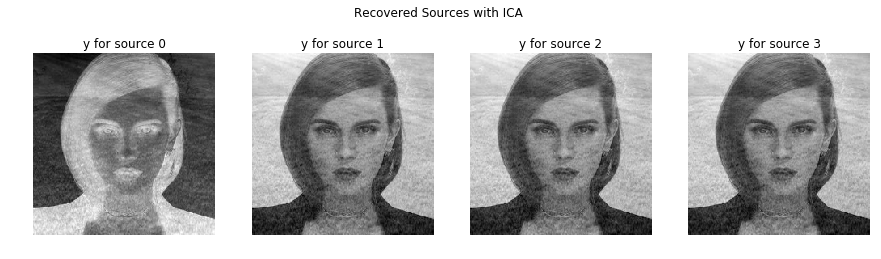
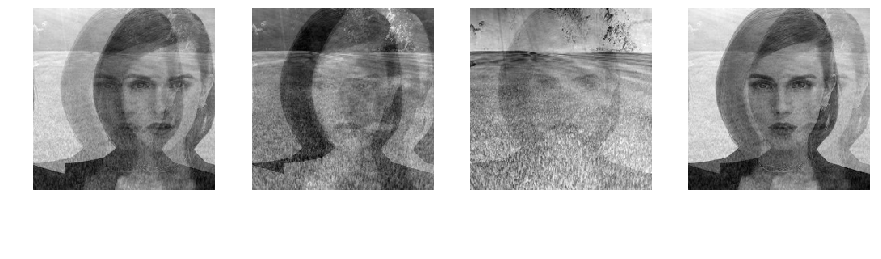
kmeans working, new init for fastISA

diff --git a/src/HistogramOrientedGradient.py b/src/HistogramOrientedGradient.py
@@ -1,0 +1,114 @@
+#!/usr/bin/env python3
+# -*- coding: utf-8 -*-
+"""
+Created on Fri Mar  3 18:19:43 2017
+
+@author: camillejandot
+"""
+import numpy as np
+
+
+class HistogramOrientedGradient():
+    def __init__(self, cell_size=4, n_bins=18, signed=True, img_size=224):
+        self.n_cells = int(img_size/cell_size)  # nb of cells (one 1 axis)
+        self.cell_size = cell_size  # nb of pixel in cell (along 1 axis)
+        self.n_bins = n_bins
+        self.img_size = img_size
+        self.signed = signed
+
+    def _grad(self, img):
+        # Compute gradient wrt 1st dimension
+        grad_x = np.zeros(img.shape)
+        grad_x[:, 1:-1] = img[:, 2:] - img[:, :-2]
+        grad_x[:, 0] = img[:, 1] - img[:, 0]
+        grad_x[:, -1] = img[:, -1] - img[:, -2]
+
+        # Compute gradient wrt 2nd dimension
+        grad_y = np.zeros(img.shape)
+        grad_y[1:-1, :] = img[2:, :] - img[:-2, :]
+        grad_y[0, :] = img[1, :] - img[0, :]
+        grad_y[-1, :] = img[-1, :] - img[-2, :]
+
+        return grad_x, grad_y
+
+    def _compute_magnitude(self, grad_x, grad_y):
+        return np.sqrt(grad_x ** 2 + grad_y ** 2)
+
+    def _compute_orientation(self, grad_x, grad_y):
+        orientation_rad = np.arctan2(grad_y, grad_x)
+        orientation_deg = (orientation_rad * 180 / (2 * np.pi)) % 360
+        return orientation_deg
+
+
+    def _orientation_interpolation(self, orientation):
+        n_bins = self.n_bins
+        if self.signed:
+            angle_max = 360.
+        else:
+            angle_max = 180.
+        angle_bin = angle_max / n_bins
+        nums_bin_low = orientation // angle_bin
+        nums_bin_high = (nums_bin_low + 1.) % n_bins
+
+        weights_high = (orientation % angle_bin) / float(angle_bin)
+        hist = np.zeros((orientation.shape[0], orientation.shape[1], n_bins))
+
+        for i in range(n_bins):
+            hist[:, :, i] = np.where(nums_bin_low == i, (1. - weights_high), 0)
+            hist[:, :, i] += np.where(nums_bin_high == i, weights_high, 0)
+
+        return hist
+
+    def _average_per_cell(self, img):
+        average = np.zeros((self.n_cells, self.n_cells, self.n_bins))
+        for i in range(0, img.shape[0], self.cell_size):
+            for j in range(0, img.shape[0], self.cell_size):
+                ind_i = i // self.cell_size
+                ind_j = j // self.cell_size
+                average[ind_i, ind_j, :] = img[i:i + self.cell_size, j:j + self.cell_size, :].mean(axis=0).mean(axis=0)
+        return average
+
+
+
+    def _normalize_histogram(self, raw_histogram):
+        pass
+
+    def _build_histogram(self, im):
+        if im.ndim == 2:
+            grad_x, grad_y = self._grad(im)
+            orientation = self._compute_orientation(grad_x, grad_y)
+            magnitude = self._compute_magnitude(grad_x, grad_y)
+            orientation_interpolation = self._orientation_interpolation(orientation)
+            hist = self._average_per_cell(orientation_interpolation * magnitude[:, :, np.newaxis]).flatten()
+            hist /= np.linalg.norm(hist)
+            feat = list(hist)
+        elif im.ndim == 3:
+            feat = []
+            for i in range(im.shape[2]):
+                grad_x, grad_y = self._grad(im[:, :, i])
+                orientation = self._compute_orientation(grad_x, grad_y)
+                magnitude = self._compute_magnitude(grad_x, grad_y)
+                orientation_interpolation = self._orientation_interpolation(orientation)
+                hist = self._average_per_cell(orientation_interpolation * magnitude[:, :, np.newaxis]).flatten()
+                hist /= np.linalg.norm(hist)
+                feat.extend(list(hist))
+        else:
+            raise Exception("Reshape, please :)")
+        return feat
+
+    def extract_features(self, X):
+        if X[0].ndim == 2:
+            feat = np.zeros((len(X), self.n_cells * self.n_cells * self.n_bins))
+
+        elif X[0].ndim == 3:
+            feat = np.zeros((len(X), self.n_cells * self.n_cells * self.n_bins * X[0].shape[2]))
+
+        else:
+            raise Exception("Reshape, please :)")
+
+        for i, item in enumerate(X):
+            feat[i] = self._build_histogram(item)
+
+        return feat
+
+

diff --git a/src/experiments_image.py b/src/experiments_image.py
@@ -8,19 +8,33 @@ Created on Fri Mar 31 17:32:15 2017
 """
 import matplotlib.pyplot as plt
 import numpy as np
-from data_utils import Image
+from data_utils import Image, load_hog_features
 from projection_utils import proj, orth_projection
 from fastICA import fastICA, fastISA
 from jade import jadeR
+from sklearn.cluster import KMeans
+from sklearn.metrics.pairwise import chi2_kernel
 
 n_sources = 4
 sub_dim = 2
-method = 'mica'
-algorithm ='jade'
+method = 'fastISA'
+algorithm ='fastICA'
 mixing_matrix = np.array([[ 0.9703649 ,  0.72929818,  0.18619978,  0.92128597],
        [ 0.47784494,  0.05356984,  0.8321572 ,  0.89070084],
        [ 0.34709615,  0.95119286,  0.20143702,  0.10954151],
        [ 0.89497312,  0.38542305,  0.51929272,  0.32574721]])
+
+unmixing_init_jade = np.array([[  2.26871417,  2.19459843,  -0.34084106, -4.48947479],
+ [  3.86424994, -3.7989024,   -3.05250899,  1.08584109],
+ [  3.33557399, -8.76012108,  -7.53106942,  16.48697795],
+ [  0.94020928,  -1.54942086, -11.75755656,   6.68037556]])
+
+unmixing_init_fastICA = np.array([[-0.81662635, -0.4594127,   0.31846124,  0.14367955],
+ [-0.48541563,  0.27400536, -0.82638635, -0.07986443],
+ [ 0.30755096, -0.82643013, -0.46181555,  0.09566635],
+ [-0.04507106, -0.16955894,  0.06677054, -0.982222  ]])
+
+init_fastISA = np.linalg.inv(unmixing_init_fastICA)
 
 # Loading Data
 im = Image(nb_images=n_sources)
@@ -33,6 +47,7 @@ if method == 'mica' or method =='ica':
         unmixing_mat = np.asarray(jadeR(mixtures))
     elif algorithm == 'fastICA':
         unmixing_mat, _, _ = fastICA(mixtures, init=False, A_init=mixing, n_iter=50)
+    print(unmixing_mat)
     A_hat = np.linalg.inv(unmixing_mat)
     y = np.dot(unmixing_mat, mixtures)
     
@@ -44,15 +59,20 @@ if method == 'mica' or method =='ica':
         plt.title('y for source ' + str(plot_num))
         #plt.suptitle("Recovered Sources with ICA")
     plt.show()
-        
+    
+    hog_features = load_hog_features(y, equalize=False)
+    X = chi2_kernel(hog_features, hog_features, gamma=0.01)
+    kmeans = KMeans(n_clusters=sub_dim, random_state=0).fit(X)
+    labels = kmeans.labels_
     # Orthogonal projections 
     if method == 'mica':
         if n_sources == 3:
-            c_emma = [0,1]
-            c_grass = 2
+            c_emma = np.where(labels == 0)[0]
+            c_grass = np.where(labels == 1)[0][0]
+            
         elif n_sources == 4:
-            c_emma = [0, 1]
-            c_grass = [2, 3]
+            c_emma = np.where(labels == 0)[0]
+            c_grass = np.where(labels == 1)[0]
         
         a_grass = A_hat[:,c_grass]
         a_emma = A_hat[:, c_emma]
@@ -85,7 +105,8 @@ if method == 'mica' or method =='ica':
             #plt.suptitle("Grass MICA Component")
 
 elif method == 'fastISA':
-    W,S,R = fastISA(X=mixtures, dim=n_sources, red_dim=mixtures.shape[0], T=mixtures.shape[1], sub_dim=sub_dim, maxiter=15, seed=5, A_init=mixing)
+    W,S,R = fastISA(X=mixtures, dim=n_sources, red_dim=mixtures.shape[0], T=mixtures.shape[1], sub_dim=sub_dim, maxiter=15, seed=5,
+                    A_init=init_fastISA)
     plt.figure(figsize=(15.0, 4.0))
     for plot_num in range(n_sources):
         plt.subplot(1, n_sources, plot_num+1)

diff --git a/src/data_utils.py b/src/data_utils.py
@@ -11,6 +11,8 @@ import matplotlib.pyplot as plt
 import numpy as np
 import pandas as pd
 from scipy.misc import imresize
+from HistogramOrientedGradient import HistogramOrientedGradient
+from equalization import equalize_item
 
 class ECG_data:
     def __init__(self,verbose=False):
@@ -107,7 +109,7 @@ class Audio:
     
 class Image:
     
-    def __init__(self, nb_images=3, shape=225):
+    def __init__(self, nb_images=3, shape=224):
         im_gl_path = '../data/image/'
         if nb_images == 2:
             ims = ['grass.jpeg', 'emma.jpeg']
@@ -172,7 +174,8 @@ class Image:
             plt.show()
             
         return mixture, mixing_matrix
-    
+
+        
 def gen_super_gauss(dim, red_dim, T, sub_dim, seed):
     n_subspace = int(np.floor(dim / sub_dim))
     
@@ -195,9 +198,49 @@ def gen_super_gauss(dim, red_dim, T, sub_dim, seed):
     X = np.dot(A,super_gauss)
     
     return  A, X, super_gauss
-            
+    
+def vec_to_img(item,rgb=False):
+    
+    length = int(np.sqrt(item.shape[0]))
+    img = np.zeros((length, length, 3))
+    for i in range(3):
+        img[:, :, i] = item.reshape(length, length)
         
+    if rgb:
+        return img
         
+    else:
+        ret = (0.2126 * img[:,:,0]) + (0.7152 * img[:,:,1]) + (0.0722 * img[:,:,2])
+        return ret
+        
+def rgb_to_opprgb(item):
+    img_opp = np.zeros((32,32,3))
+    opp_mult = np.array([[1.,0.,1,13983],[1.,-0.39465,-0.58060],[1.,2.03211,0.]])
+    img = vec_to_img(item,rgb=True)
+
+    img_opp[:,:,0] = opp_mult[0,0]*img[:,:,0] + opp_mult[0,1]*img[:,:,1] + opp_mult[0,2]*img[:,:,2]
+    img_opp[:,:,1] = opp_mult[1,0]*img[:,:,0] + opp_mult[1,1]*img[:,:,1] + opp_mult[1,2]*img[:,:,2]
+    img_opp[:,:,2] = opp_mult[2,0]*img[:,:,0] + opp_mult[2,1]*img[:,:,1] + opp_mult[2,2]*img[:,:,2]
+
+    return img_opp
+
+def load_hog_features(data_train, rgb=False, equalize=True, yuv=False, n_cells_hog=8,signed=True,):
+    hist_train = []
+    hog = HistogramOrientedGradient()   
+
+    for id_img in range(len(data_train)):
+        image = data_train[id_img]
+        if equalize:
+            img = equalize_item(image, rgb=rgb, verbose=False)
+        elif yuv:
+            img = rgb_to_opprgb(image)
+        else:
+            img = vec_to_img(image, rgb=rgb)
+        hist_train.append(hog._build_histogram(img))    
+    X_train = np.array(hist_train)
+    return X_train  
+
+     
 if __name__ == '__main__':
 
     data_type = 'image'

diff --git a/src/equalization.py b/src/equalization.py
@@ -5,7 +5,6 @@ Created on Wed Feb 22 16:06:24 2017
 
 @author: camillejandot
 """
-
 import numpy as np
 import matplotlib.pyplot as plt
 
@@ -45,27 +44,27 @@ def plot_histograms(hist,hist_after_eq):
     plt.show()
     
 def equalize_item(item,rgb=False,verbose=False,report=False):
-#    img = np.zeros((32,32,3))
-#
-#    img[:,:,0] = item[:1024].reshape(32,32)
-#    img[:,:,1] = item[1024:2048].reshape(32,32)
-#    img[:,:,2] = item[2048:].reshape(32,32)
-#    
-#    min_r = np.ones((32,32))*img[:,:,0].min() 
-#    min_g = np.ones((32,32))*img[:,:,1].min() 
-#    min_b = np.ones((32,32))*img[:,:,2].min() 
-#    
-#    img[:,:,0] -= min_r
-#    img[:,:,1] -= min_g
-#    img[:,:,2] -= min_b
-#    
-#    img[:,:,0] *= 255.
-#    img[:,:,1] *= 255.
-#    img[:,:,2] *= 255.
+    img = np.zeros((32,32,3))
+
+    img[:,:,0] = item[:1024].reshape(32,32)
+    img[:,:,1] = item[1024:2048].reshape(32,32)
+    img[:,:,2] = item[2048:].reshape(32,32)
+    
+    min_r = np.ones((32,32))*img[:,:,0].min() 
+    min_g = np.ones((32,32))*img[:,:,1].min() 
+    min_b = np.ones((32,32))*img[:,:,2].min() 
+    
+    img[:,:,0] -= min_r
+    img[:,:,1] -= min_g
+    img[:,:,2] -= min_b
+    
+    img[:,:,0] *= 255.
+    img[:,:,1] *= 255.
+    img[:,:,2] *= 255.
     
     if not rgb:
-        #img_grey = np.uint8((0.2126 * img[:,:,0]) + np.uint8(0.7152 * img[:,:,1]) + np.uint8(0.0722 * img[:,:,2]))
-        input_grey = item #img_grey.copy()
+        img_grey = np.uint8((0.2126 * img[:,:,0]) + np.uint8(0.7152 * img[:,:,1]) + np.uint8(0.0722 * img[:,:,2]))
+        input_grey = img_grey.copy()
         
         eq_img_grey, hist_grey, eq_hist_grey = equal_hist(input_grey)
     

diff --git a/src/KMeans.py b/src/KMeans.py
@@ -8,7 +8,8 @@ Created on Sat Mar 25 13:32:09 2017
 from numpy.linalg import norm
 import numpy as np
 from random import shuffle
-from fastdtw import fastdtw
+#from fastdtw import fastdtw
+from sklearn.metrics.pairwise import chi2_kernel
 
 class KMeans:
     """
@@ -19,7 +20,7 @@ class KMeans:
         (https://en.wikipedia.org/wiki/Dynamic_time_warping)
         
     """
-    def __init__(self,n_clusters=2,n_iter=10,distance='euclidean'):
+    def __init__(self,n_clusters=2, n_iter=10, distance='euclidean'):
         self.n_clusters = n_clusters
         self.n_iter = n_iter
         self.centroids = 0
@@ -56,9 +57,12 @@ class KMeans:
                 centroid = centroids[i_centroid]
                 if self.distance == 'euclidean':
                     dists[i_centroid] = norm(obj-centroid,2)
+                if self.distance == 'chi_2':
+                    dists[i_centroid] == chi2_kernel(obj, centroid, gamma=0.01)
                 elif self.distance == 'dtw':
                     #dists[i_centroid] = self._DTW_distance(obj,centroid)
-                    dists[i_centroid],_ = fastdtw(obj,centroid)
+                    #dists[i_centroid],_ = fastdtw(obj,centroid)
+                    pass
                 else:
                     #print('distance ',self.distance,' not implemented: using euclidean)
                     dists[i_centroid] = norm(obj-centroid,2)

diff --git a/src/fastICA.py b/src/fastICA.py
@@ -139,7 +139,6 @@ if __name__ == '__main__':
     A, X, super_gauss = gen_super_gauss(dim=20, red_dim=20, T=10000, sub_dim=4, seed=5)
     W_true = np.linalg.inv(A)
     W,S,R = fastISA(X=X, dim=20, red_dim=20, T=10000, sub_dim=4, maxiter=15, seed=5, A_init=A)
-    print(W_true-W)
     plt.figure()
     plt.imshow(np.dot(np.dot(W, R), A), cmap='gray', vmin=-1, vmax=1)
     scipy.io.savemat('result.mat', {'arr':np.dot(np.dot(W, R), A)})

diff --git a/src/MICA.py b/src/MICA.py
@@ -9,7 +9,6 @@ Created on Tue Mar 21 15:00:09 2017
 import matplotlib.pyplot as plt
 import numpy as np
 from scipy.io import wavfile
-
 from data_utils import Image, ECG_data, Audio
 from projection_utils import proj, orth_projection
 from fastICA import fastICA
